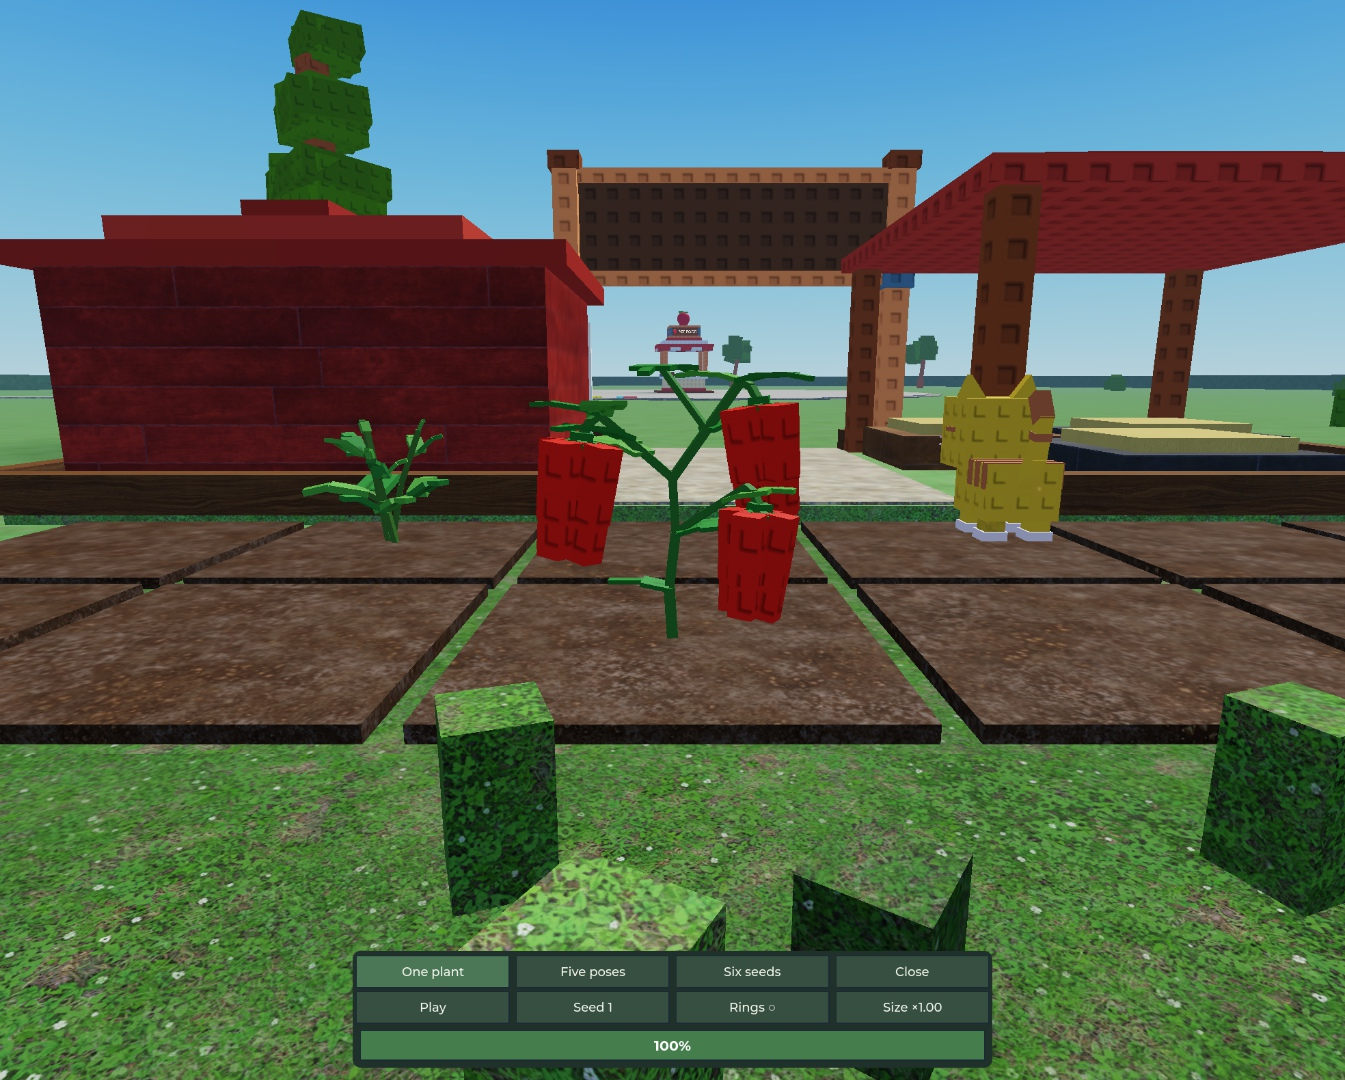
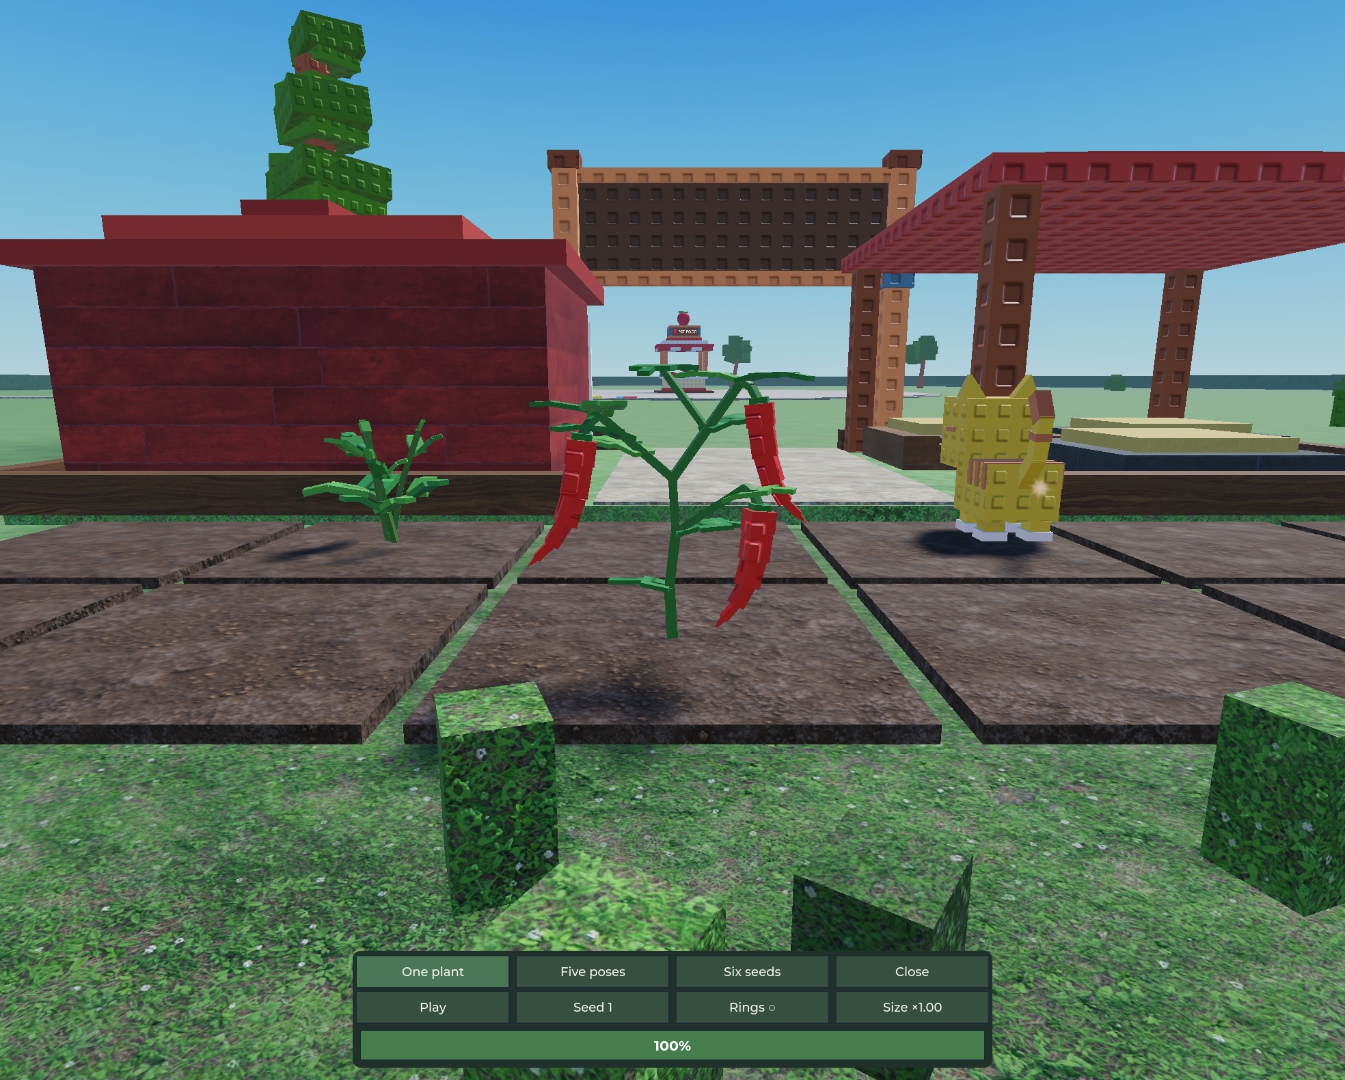
Replace bell pepper fruit with curved pointed chillies

diff --git a/docs/plants/PEPPER.md b/docs/plants/PEPPER.md
@@ -1,35 +1,25 @@
-# Paprika / Pepper growth art
+# Pepper growth art
 
 [Shared authoring and Studio player](../PLANT_GROWTH.md) · [Status](../ROADMAP.md)
 
 ## Selected design
 
-Reference: Ales's bell-pepper growth illustration, 2026-11-09. Keep the existing stored crop ID `Pepper` (Czech name Paprika).
-Ales approved the no-pole bush, elongated/slimmer fruit and red ripe colour on 2026-11-09. The continuous-growth recipe follows
-this selected silhouette and is registered for the field. The five growth stills await art review.
+Ales's corrected reference (2026-11-09) is a **slender, pointed red chilli**, replacing the original lobed bell-pepper fruit.
+Keep the stored crop ID `Pepper`, its current localized name and three stable fruit slots. The crop icon is now 🌶.
+The earlier bell-fruit study is historical; it is not the target for new work.
 
-[Mature study beside the avatar](../art/pepper/ripe-study.jpg) ·
-[Reproducible Studio client study](../../tools/pepper_ripe_study.luau)
+The free-standing upright forked bush has no pole. Two unequal upper arms and a shorter side shoot carry pointed oval leaves,
+with gaps around the hanging fruit. At standard mass, the baseline is about **3.38 studs** tall, below the 5.46-stud reference
+avatar. Keep every growth pose inside the shared **2.4-stud ground radius** and use Pawvest's colored stud-block style.
 
-A **free-standing upright forked bush without a pole**: one sturdy central stem splits into two unequal upper arms, with a shorter
-side shoot. Pointed oval leaves leave clear gaps around three hanging peppers, staggered in height and azimuth. The fruit remains
-visible as the seeded plant rotates. The upright habit contrasts with Tomato's low spreading bush.
+## Distinct chilli fruit
 
-Target standard-mass height: **3.2–3.6 studs**, below the 5.46-stud reference avatar and taller than Tomato's 2.1-stud bush.
-Maintain the shared maximum **2.4-stud ground radius** throughout growth, including supported seeds and size extremes.
-Use Pawvest's opaque colored stud-block style. The supplied illustration's exposed roots are explanatory; roots stay below soil.
-
-## Distinct bell-pepper fruit
-
-- Broad square shoulders beneath a small green calyx, a short bent green stalk, and a pendant orientation.
-- Four overlapping elongated lobes form one solid fruit with shallow vertical grooves and a subtly tapered body. The four blunt
-  lower tips remain discernible; avoid a pointed chilli tip, a round tomato, or a cluster of separate balls.
-- **Ales's shape correction (2026-11-09):** lengthen and slim the fruit so it cannot be mistaken for Tomato. The revised study
-  stretches the fruit bodies by **27% vertically** and narrows them by **14%**, with matching narrower calyxes. The three
-  standard-mass bodies measure **0.83–0.96 studs wide and 1.22–1.40 studs long** (length/width about **1.46**).
-  Reserve foliage gaps around the shoulders and lower lobes.
-- All three peppers finish red. Green → warm orange → red is a ripening shortcut; widening shoulders and filling lobes must
-  also communicate progress. Seeded variation changes relative length/width and hanging angle while preserving the bell shape.
+- A narrow body hangs from a small green calyx and bent stalk. There are no square shoulders, longitudinal lobes or blunt bell tips.
+- The body follows a connected six-section curve, narrowing toward a real wedge-shaped point. Baseline shoulder thickness is
+  about **0.34 studs**; vertical reach is about **1.55 studs**, with a sideways hook near the tip.
+- Two peppers curve one way and the third curves the other; seeds vary bend, slenderness and length. New random draws are appended
+  after the existing bush parameters so the corrected fruit does not reroll the planting's foliage identity.
+- All three finish red. Green → orange → red, increasing length and a filling upper body communicate ripeness.
 
 ## Growth and harvest
 
@@ -38,40 +28,40 @@ Use Pawvest's opaque colored stud-block style. The supplied illustration's expos
 
 | Growth | Review pose |
 |---|---|
-| 0% | A tiny planted sprout with two folded seed leaves just above the soil. An unplanted square remains bare. |
-| 20% | A short upright stem with the first two pointed leaves opening at different heights. |
-| 50% | The main fork and unequal upper arms extend; pointed leaves open in tiers. Small white flowers appear at the three future fruit attachments. |
-| 75% | Nearly full bush height. Flowers have faded; attached green peppers lengthen into clearly grooved bells beneath their calyxes. |
-| 100% | Three plump red bell peppers hang in the foliage gaps; fruit-bearing arms dip slightly under their apparent weight. Leaves stay green. |
+| 0% | Tiny planted sprout with two folded leaves; unplanted soil stays bare. |
+| 20% | Short upright stem with two pointed leaves opening at different heights. |
+| 50% | Unequal arms extend, leaves unfold in tiers and small white flowers open at the three fruit attachments. |
+| 75% | Nearly full bush, with slender green peppers lengthening and curving beneath their calyxes. |
+| 100% | Three filled red chillies hang with distinct pointed hooks; fruit-bearing arms have settled slightly. |
 
-Stems extend successively from their current parent tips. Leaves unfold at their bases with overlapping timing. Five-petal white
-flowers open briefly; their plates contract and turn green into the calyx as fruit sets at the same attachment. Fruit first
-lengthens, then fills across its shoulders and lobes. Fruit-bearing arms settle through a small dip; their attached leaves,
-stalks and fruit follow. Growth is continuous and reversible, without model swaps or a wind loop.
+Stems extend from their current parents and leaves unfold at attached bases. Five-petal white blossoms contract and turn green
+into the calyx as fruit sets at the same attachment. The fruit lengthens, develops its curve and fills toward its upper end.
+Growth is continuous and reversible; attached stalks, leaves and fruit follow the branch's small settling motion.
 
-Seeds vary height, arm balance, spread, lean, leaf angles, relative fruit sizes and timing. Seed 1 is the authored baseline;
-free-standing plants rotate through a full circle. Actual harvest mass, including Sorter, uses cube-root dimensional scaling
-chiefly on fruit, with constrained foliage vigor and footprint. The largest fruit can raise the bush to preserve soil clearance.
-Production duration remains **one hour** and annual harvest clears the square. No persistence or economy changes.
+Seeded variation changes height, arm balance, lean, leaf angles and fruit proportions/timing. Seed 1 is the authored baseline;
+the plant can rotate through a full circle. Actual harvested mass, including Sorter, scales fruit dimensions by its cube root.
+Foliage vigor and spread are constrained; large fruit can raise the bush to preserve soil clearance.
+Production duration remains **one hour** and harvest clears the whole square.
 
 ## Recipe and fruit identity
 
-[`PepperPlant.luau`](../../src/ReplicatedStorage/PepperPlant.luau), built on `PlantKit`, reuses **90 Parts**: seven stems,
-35 leaf plates (one small lower leaf has two, the other eleven have three) and three 16-Part fruit/blossom assemblies.
-A 36-square field uses **3,240 plant Parts** before soil, pets or UI. Direct-built mid proxies use **5 / 31 / 31 Parts** for
-young/growing/ripe plants, retaining the fork and four fruit lobes; low detail hides art. Nominal ring height is **4.4 studs**,
-scaled by harvested mass's cube root. The shared scheduler poses the one-hour crop every **7.5 seconds**, skips completed leaf
-groups and stops posing ripe plants. Parts do not intercept soil-selection rays.
+[`PepperPlant.luau`](../../src/ReplicatedStorage/PepperPlant.luau) uses `PlantKit` and is registered in `PlantGrowth`.
+The full plant reuses **84 Parts**: seven stems, 35 leaf plates and three 14-Part fruit/blossom groups.
+A 36-square field uses **3,024 plant Parts** before soil, pets or UI. Direct-built mid proxies use **5 / 31 / 31 Parts**
+for young/growing/ripe plants, preserving the curved pointed fruit. Low detail hides crop art.
 
-Each plant exposes `fruitSlots[1..3]` with stable `id`, mature world-space `attachment` CFrame and 16 grouped `parts` (two stalk
-pieces, centre/calyx, five petals/sepals, eight lobe pieces). `PlantRole` distinguishes structure, foliage and fruit; `FruitSlot`
-identifies every fruit assembly's Parts. These slots do not define reward quantity or enable perennial collection.
+`PlantKit` accepts an optional `WedgePart` class for pointed tips; existing callers still create ordinary Parts.
+Nominal ring height is **4.4 studs**, scaled by harvested mass's cube root. The shared one-hour scheduler samples every
+**7.5 seconds**, skips completed leaf groups and stops posing ripe plants. Crop art does not intercept selection rays.
 
-Studio checks (2026-11-09): six seeds, harvest factors **0.3566 / 1 / 3.0298** and 101 ages stay within a **2.02-stud** maximum
-radius; ripe height ranges **2.91–4.22 studs**, with at least **0.29 studs** fruit clearance. Leaf/stalk/calyx attachments and exact
-backward seeks pass. PlotView builds 270 full-detail Parts for three peppers and 67 mid-proxy Parts, retains plant/soil/pet on
-time corrections, restores detail and clears harvested art. Review Play/Pause, Rings and Close were exercised through the UI;
-ring, selection and field pet were checked together at field distance. Server/client gameplay logs were clear.
+Each `fruitSlots[1..3]` entry has a stable ID, mature world-space attachment CFrame and 14 grouped Parts: two stalk pieces,
+centre/calyx, five petals/sepals, five body sections and one pointed wedge. `PlantRole` distinguishes structure, foliage and fruit;
+`FruitSlot` identifies the group. Visual slots do not define reward quantity or implement perennial collection.
 
-The original mature study has 88 Parts and remains a static design reference. Growth art review, full-field/24-plot performance,
-real-phone rendering and second-client checks remain open; the geometry checks do not establish runtime performance.
+Studio checks (2026-11-09): six seeds × harvest factors **0.3566 / 1 / 3.0298** × 101 ages fit within **2.04 studs** ground radius.
+Ripe height is **2.91–4.73 studs**, with at least **0.34 studs** fruit clearance. Attachment and backward-seek checks pass.
+PlotView uses 252 full-detail Parts or 67 mid-proxy Parts for three test crops, retains plant/soil/pet on time corrections,
+restores detail and clears harvested art. Other existing recipes still build, pose and destroy through the shared Part factory.
+The chilli icon renders in the ripe ring; the ring, selection outline and field pet were checked together at field distance.
+
+Revised art review, full-field/24-plot performance, real-phone and second-client checks remain open.

diff --git a/docs/ROADMAP.md b/docs/ROADMAP.md
@@ -61,7 +61,7 @@ A design change found while building goes docs → ROADMAP → code, in that ord
 | CG5 | Frost Grape growth art | CG5a/b approved; explicit fruit slots | Studio checks pass; CG5c field integration next | – |
 | CG6 | Corn growth art | CG6a–d complete | Studio checks and desktop CPU sample pass; real phone and second client confirmed by Ales 2026-11-09 | – |
 | CG7 | Lettuce growth art | CG7a (A, crisp head, chosen) and CG7b/c recipe + field registration built | Studio checks pass (bounds, seeds, sizes, seek, proxies, PlotView path); five stills and colour/density fix approved by Ales 2026-11-09; real phone and second client open | – |
-| CG8 | Pepper / Paprika growth art | [Red upright bush](plants/PEPPER.md) approved; CG8b/c growth recipe + field registration built | Studio checks pass (seeds, sizes, bounds, attachments, seeks, proxies, PlotView, ring/pet); five stills ready for review; performance, real phone and second client open | – |
+| CG8 | Pepper growth art | [Red chilli-pepper bush](plants/PEPPER.md); corrected pointed/curved fruit replaces the bell shape; CG8b/c registered | Revised Studio checks pass (84 Parts, seeds, sizes, bounds, attachments, seeks, proxies, PlotView); updated five stills await art review; performance, real phone and second client open | – |
 | M6b, S11, M7, trading | Final balancing, bonus stages, monetization (drop D2), trading | – | – | – |
 
 ## Next
@@ -101,8 +101,8 @@ player has the crop field, so the rest of the garden MVP (EXPANSION §14) is bui
   integration/proxy, then **CG5d** performance validation. Fruit-only perennial gameplay remains separate future work.
 - **CG7:** [Lettuce's crisp head](plants/LETTUCE.md) is registered in `PlantGrowth` and Studio-checked; Ales approved the five stills (2026-11-09).
   Real-phone and second-client validation remain open.
-- **CG8:** [Pepper / Paprika](plants/PEPPER.md): red, elongated bells on a free-standing bush approved; continuous growth and field
-  registration are Studio-checked. Five growth stills await art review; full-field/24-plot performance, real phone and second client remain open.
+- **CG8:** [Pepper](plants/PEPPER.md): Ales corrected the fruit to slender, pointed red chillies; growth and field registration are
+  revalidated with the curved/tapered fruit. Updated five stills await art review; full-field/24-plot performance, real phone and second client remain open.
 
 Key talents as **world rewards**: done for Double Jump (K1, GDD §6). Open: Triple Jump / Dash for World 3. The lost Coin sinks are made up in
 the balancing pass (STAGES §6, GDD §6).
@@ -746,7 +746,7 @@ d Scouting XP, e eggs rolled at purchase. The rules and targets: ECONOMY.md → 
 a number needs a small code change. Order: GDD / EXPANSION wording first, then the configs, then code, then loc, then Studio.
 1. **The crop ladder in the game:** the 4 crops re-timed (Potato 10 s, Corn 30 m, Pumpkin 3 h, Giant melon 12 h) **and the 12 "Future
    plants" added as real crops** (with only the 4 the game would jump 10 s → 30 m → 3 h → 12 h, and the ladder's gates would be empty).
-   Proposed names: 30 s Lettuce 🥬, 1 m Onion 🧅, 3 m Garlic 🧄, 8 m Tomato 🍅, 15 m Cucumber 🥒, 1 h Pepper 🫑, 2 h Broccoli 🥦,
+   Proposed names: 30 s Lettuce 🥬, 1 m Onion 🧅, 3 m Garlic 🧄, 8 m Tomato 🍅, 15 m Cucumber 🥒, 1 h Pepper 🌶, 2 h Broccoli 🥦,
    4 h Eggplant 🍆, 6 h Strawberry 🍓, 8 h Sweet potato 🍠, 18 h Sunflower 🌻, 24 h Pineapple 🍍 (new ids, letters h-s, a ripe colour
    each in `PlotView.CROP_COLORS`, `crop.name.*` strings). Sale / seed / Renown gate / xp / kg from the proposal; rare crops re-priced.
 2. **Renown:** `RenownK` 0.4, `RenownP` 3, points per harvest per crop (`renownPoints`, 4 × minutes^0.5) instead of `RenownPoints[tier]`.

diff --git a/docs/LAYOUT.md b/docs/LAYOUT.md
@@ -39,7 +39,7 @@ src/
     FrostGrapePlant.luau              CG5b display-only recipe, not registered for live fields: 115 Parts on the selected tall B trellis. SetGrowth(0..1), stable seeds, mass-scaled berries, rigid 7.4-stud support. Reviewed through PlantGrowthReview.
     CornPlant.luau                    CG6b/c registered recipe: 99 Parts on the selected taller B stalk, unfolding ribbon leaves, two husked ears with explicit fruit slots, crown tassel. Shared seed parameters for 5/9/14-Part mid proxies. Fixed ring height 10.8 studs. Reviewed through PlantGrowthReview.
     LettucePlant.luau                 CG7 registered recipe: 70 Parts on the selected crisp head (three leaf rings unfolding outward-in, frilled outer tips, a swelling two-piece head). Canopy fit to the 2.4-stud radius; 2/9/14-Part mid proxies; ring height 2.3 studs. Reviewed through PlantGrowthReview.
-    PepperPlant.luau                  CG8 registered recipe: 90 Parts on the approved free-standing bush; unfolding pointed leaves, white blossoms and three elongated lobed red peppers with explicit fruit slots. Direct-built 5/31/31-Part mid proxies; mass-scaled ring height 4.4 studs. Reviewed through PlantGrowthReview.
+    PepperPlant.luau                  CG8 registered recipe: 84 Parts on a free-standing bush; unfolding pointed leaves, white blossoms and three curved, tapered red chillies with wedge tips and explicit fruit slots. Direct-built 5/31/31-Part mid proxies; mass-scaled ring height 4.4 studs. Reviewed through PlantGrowthReview.
   ServerScriptService/
     PlayerProfile.luau                per-player profile DataStore (load/migrate/save), AddCoins, CoinsChanged; OnLeaving(fn) callbacks run once per player before the leave save (also from BindToClose); IsNew (no record and no legacy data)
     CoinRewards.luau                  Grant(player, base, source): the only gameplay Coin payout (pet multiplier, rounding)

diff --git a/docs/PLANT_GROWTH.md b/docs/PLANT_GROWTH.md
@@ -11,7 +11,7 @@ selected silhouette, growth poses and geometry budget.
 | Frost Grape | [Tall vineyard trellis](plants/FROST_GRAPE.md) | 115 |
 | Corn | [Tall two-ear stalk](plants/CORN.md) | 99 |
 | Lettuce | [Crisp head](plants/LETTUCE.md) | 70 |
-| Pepper / Paprika | [Upright red bell-pepper bush](plants/PEPPER.md) | 90 |
+| Pepper | [Upright red chilli-pepper bush](plants/PEPPER.md) | 84 |
 
 ## Studio growth player
 
